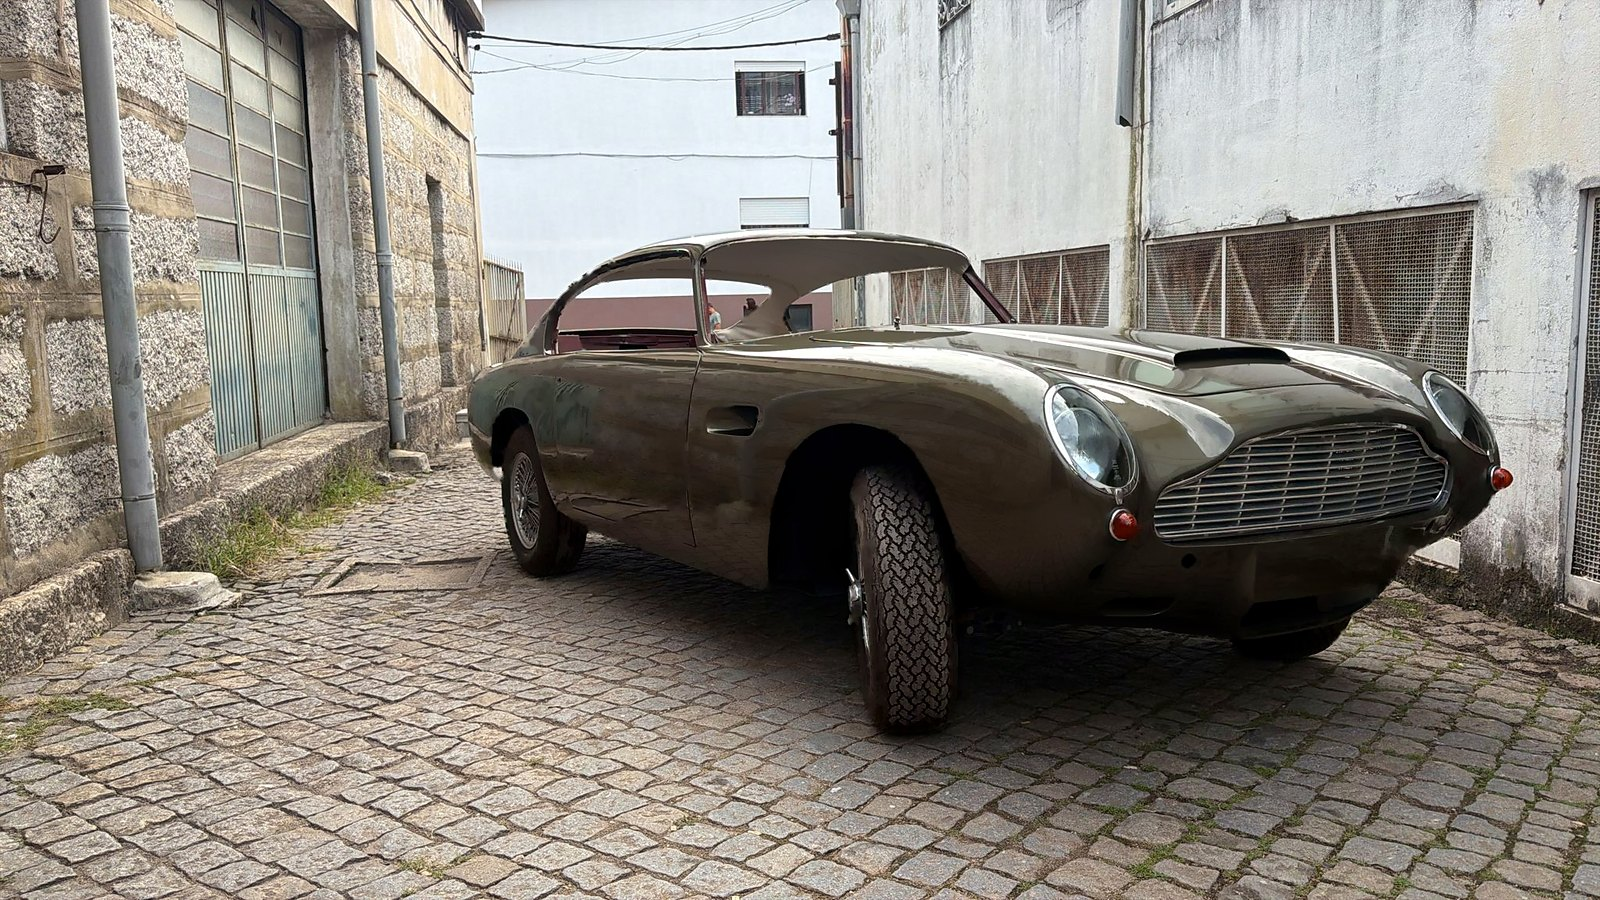
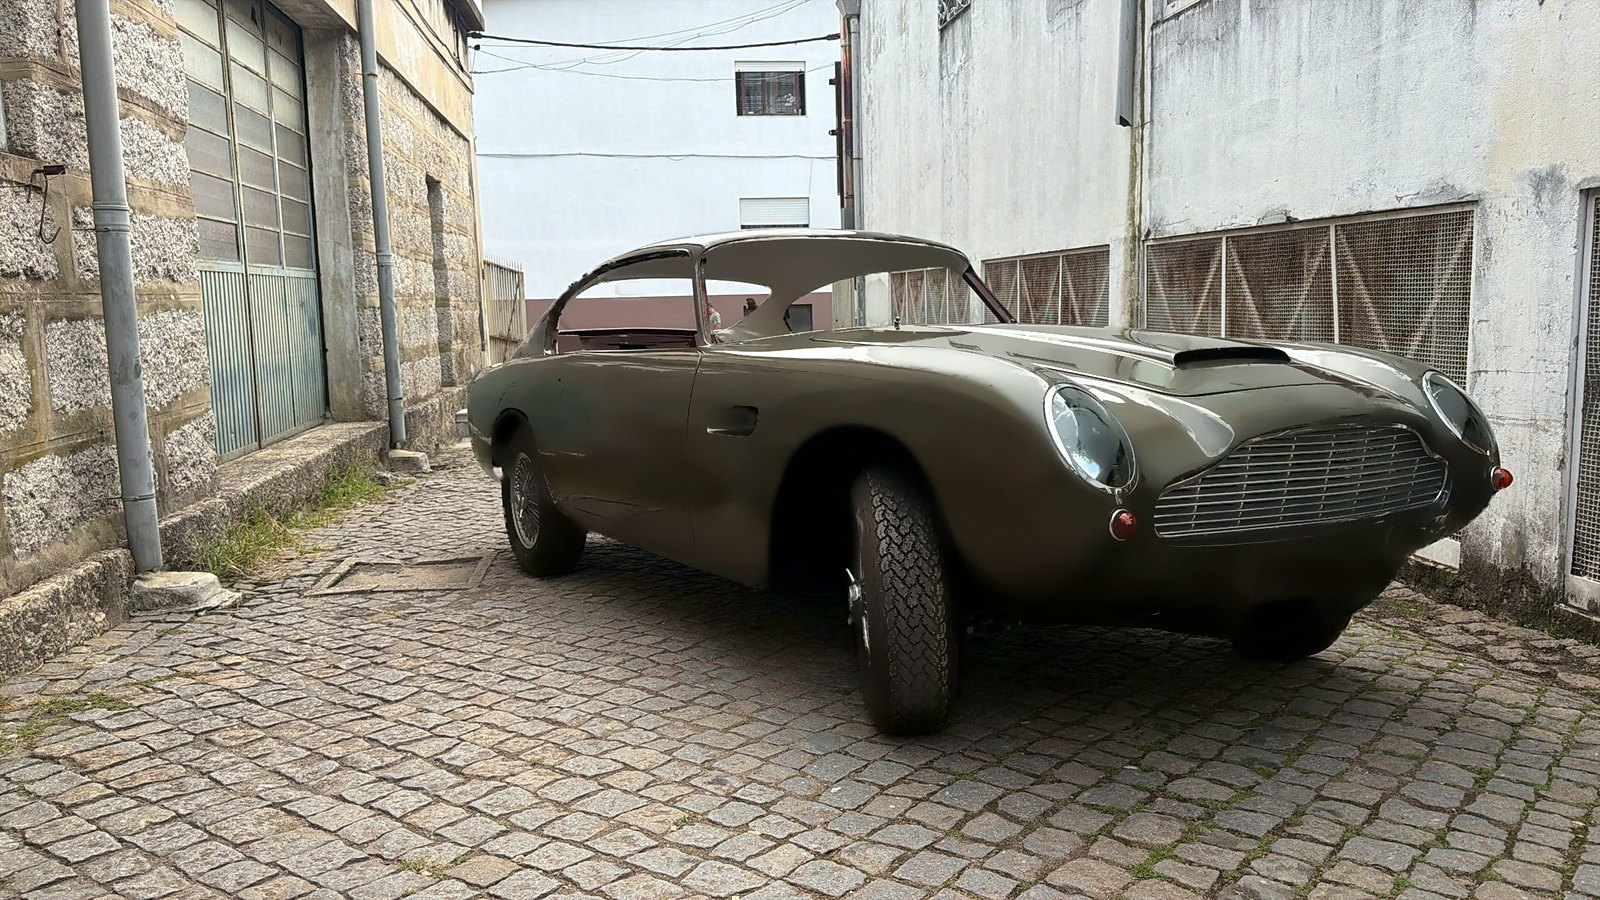
DB6 : traces et poussière retirées sur la peinture de toutes les photos, photo d'atelier avec la 944 retirée
Claude-Session: https://claude.ai/code/session_015zE2JHhJaGwJACaMcimioU

diff --git a/index.html b/index.html
@@ -4398,34 +4398,30 @@ footer{border-top:1px solid rgba(168,123,79,.3)!important}
       "atelier": [
         {
           "src": "img/db6-at-1.jpg",
-          "legende": "L'atelier de carrosserie, caisse aluminium mise à nu"
-        },
-        {
-          "src": "img/db6-at-2.jpg",
           "legende": "Caisse aluminium à nu, avant apprêt"
         },
         {
-          "src": "img/db6-at-3.jpg",
+          "src": "img/db6-at-2.jpg",
           "legende": "En apprêt, avant la peinture"
         },
         {
-          "src": "img/db6-at-4.jpg",
+          "src": "img/db6-at-3.jpg",
           "legende": "Caisse apprêtée, prête pour la cabine"
         },
         {
-          "src": "img/db6-at-5.jpg",
+          "src": "img/db6-at-4.jpg",
           "legende": "Plaquette de teinte Olive d'origine"
         },
         {
-          "src": "img/db6-at-6.jpg",
+          "src": "img/db6-at-5.jpg",
           "legende": "En cabine, Olive appliquée"
         },
         {
-          "src": "img/db6-at-7.jpg",
+          "src": "img/db6-at-6.jpg",
           "legende": "Baie de porte et passage de roue peints"
         },
         {
-          "src": "img/db6-at-8.jpg",
+          "src": "img/db6-at-7.jpg",
           "legende": "Planche de bord et instrumentation fournies avec l'auto"
         }
       ],
@@ -4457,7 +4453,6 @@ footer{border-top:1px solid rgba(168,123,79,.3)!important}
             "Upholstery: black trim already made, or new tan trim"
           ],
           "atelier_leg": [
-            "The coachbuilding workshop, aluminium body stripped bare",
             "Bare aluminium body, before primer",
             "In primer, before paint",
             "Body in primer, ready for the booth",
@@ -4495,7 +4490,6 @@ footer{border-top:1px solid rgba(168,123,79,.3)!important}
             "Sattlerei: schwarze Ausstattung bereits gefertigt, oder neu in Tan"
           ],
           "atelier_leg": [
-            "Die Karosseriewerkstatt, Aluminiumkarosserie blank",
             "Aluminiumkarosserie blank, vor der Grundierung",
             "In Grundierung, vor der Lackierung",
             "Karosserie grundiert, bereit für die Kabine",
@@ -4533,7 +4527,6 @@ footer{border-top:1px solid rgba(168,123,79,.3)!important}
             "Estofos: pretos já feitos, ou novos em tan"
           ],
           "atelier_leg": [
-            "A oficina de chapa, carroçaria em alumínio a nu",
             "Carroçaria em alumínio a nu, antes do primário",
             "Em primário, antes da pintura",
             "Carroçaria em primário, pronta para a cabine",
